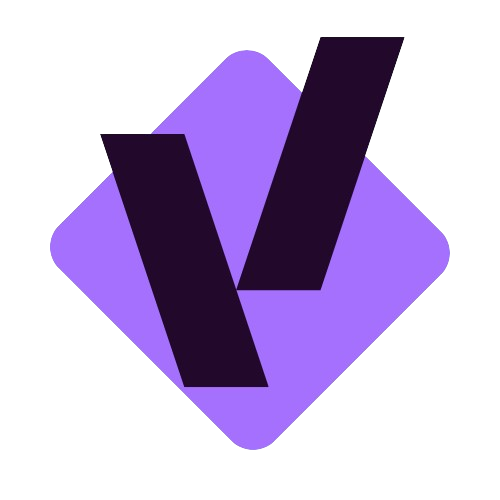
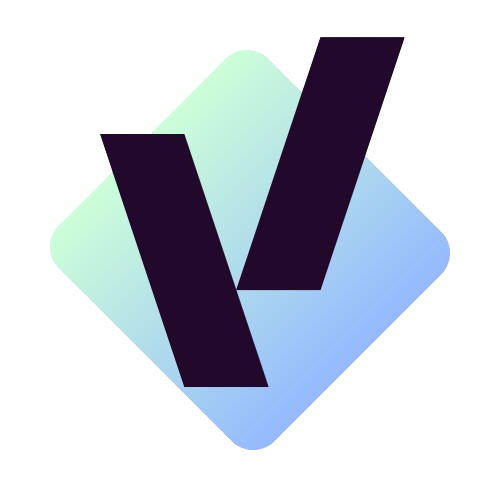
Version 1.02
Added new mode highlighting feature to indicate the active mode, and added a new icon.

Changed region(s): [[0.09, 0.09, 0.9, 0.9]]

diff --git a/Extension/handlers/contenteditable.js b/Extension/handlers/contenteditable.js
@@ -2,11 +2,19 @@ function handleContentEditable(event, el) {
     if (event.key === "i" && normal) {
       event.preventDefault();
       console.log("you're in insert mode");
+      const range = window.getSelection().getRangeAt(0);
+      range.setStart(range.startContainer, range.startOffset);
+      range.setEnd(range.startContainer, range.startOffset);
+      window.getSelection().addRange(range)
       normal = false;
     }
     else if (event.key === "`" && !normal) {
       event.preventDefault();
       console.log("you're back in normal mode")
+      const range = window.getSelection().getRangeAt(0);
+      range.setStart(range.startContainer, range.startOffset - 1);
+      range.setEnd(range.startContainer, range.startOffset + 1);
+      window.getSelection().addRange(range);
       normal = true;
     }
     else if (event.key === "h" && normal) {
@@ -30,7 +38,10 @@ function handleContentEditable(event, el) {
       nextwordContentEditable();
   } else if (event.key === "a" && normal){
       event.preventDefault();
-      moveCursorRightContentEditable();
+      const range = window.getSelection().getRangeAt(0);
+      range.setStart(range.startContainer, range.startOffset + 1);
+      range.setEnd(range.startContainer, range.startOffset);
+      window.getSelection().addRange(range);
       normal = false;
   } else if (event.key === "b" && normal){
       event.preventDefault();
@@ -54,7 +65,7 @@ function moveCursorLeftContentEditable() {
     const range = selection.getRangeAt(0);
     if (range.startOffset > 0) {
         range.setStart(range.startContainer, range.startOffset - 1);
-        range.setEnd(range.startContainer, range.startOffset);
+        range.setEnd(range.startContainer, range.startOffset + 1);
         selection.addRange(range);
     }
 }
@@ -65,8 +76,9 @@ function moveCursorRightContentEditable() {
     const node = range.startContainer;
     const textLength = node.textContent.length;
     if (range.startOffset >= textLength) return;
+    if (range.startOffset + 1 === textLength) return;
     range.setStart(range.startContainer, range.startOffset + 1);
-    range.setEnd(range.startContainer, range.startOffset);
+    range.setEnd(range.startContainer, range.startOffset + 1);
     selection.addRange(range);
 }
 
@@ -78,9 +90,9 @@ function moveCursorDownContentEditable() {
   if (!nextline) return;
   const textNode = nextline.firstChild;
   if (textNode && textNode.nodeType === Node.TEXT_NODE) {
-    const offset = Math.min(column, textNode.length); // Avoid going past the line's length
+    let offset = Math.min(column, textNode.length); // Avoid going past the line's length
     range.setStart(textNode, offset);
-    range.setEnd(textNode, offset);
+    range.setEnd(textNode, offset + 1);
     selection.addRange(range);
   } 
 }
@@ -95,7 +107,7 @@ function moveCursorUpContentEditable() {
   if (textNode && textNode.nodeType === Node.TEXT_NODE){
     const offset = Math.min(column, textNode.length);
     range.setStart(textNode, offset);
-    range.setEnd(textNode, offset);
+    range.setEnd(textNode, offset + 1);
     selection.addRange(range);
   }
 }
@@ -106,10 +118,12 @@ function nextwordContentEditable() {
   const linetext = getCurrentLineText();
   const currentTextAfterCaret = linetext.substring(range.startOffset);
   const nextSpaceIndex = currentTextAfterCaret.indexOf(" ");
-  const nextwordpos = (nextSpaceIndex === -1) ? linetext.length : range.startOffset + nextSpaceIndex + 1;
-
+  let nextwordpos = (nextSpaceIndex === -1) ? linetext.length : range.startOffset + nextSpaceIndex + 1;
+  if (nextwordpos === linetext.length){
+    --nextwordpos;
+  }
   range.setStart(range.startContainer, nextwordpos);
-  range.setEnd(range.startContainer, nextwordpos);
+  range.setEnd(range.startContainer, nextwordpos + 1);
   selection.addRange(range);
 }
 
@@ -121,7 +135,7 @@ function gobackContentEditable() {
   const lastSpaceIndex = currentTextBeforeCaret.lastIndexOf(" ");
   const newpos = (lastSpaceIndex === -1) ? 0 : lastSpaceIndex;
   
-  range.setStart(range.startContainer, newpos);
+  range.setStart(range.startContainer, newpos - 1);
   range.setEnd(range.startContainer, newpos);
   selection.addRange(range);
 }
@@ -130,7 +144,7 @@ function zerocont() {
   const selection = window.getSelection();
   const range = selection.getRangeAt(0);
   range.setStart(range.startContainer,0);
-  range.setEnd(range.startContainer,0);
+  range.setEnd(range.startContainer,1);
   selection.addRange(range);
 }
 

diff --git a/Extension/handlers/textbox.js b/Extension/handlers/textbox.js
@@ -3,10 +3,12 @@ function handleTextbox(event, el) {
   if (event.key === "i" && normal) {
       event.preventDefault();
       console.log("You're in insert mode");
+      switchin(el);
       normal = false;
   } else if (event.key === "`" && !normal){
       event.preventDefault();
       console.log("you're back in normal mode");
+      switchnorm(el);
       normal = true;
   } else if (event.key === "h" && normal){
       event.preventDefault();
@@ -42,25 +44,46 @@ function handleTextbox(event, el) {
 }
 
 // keybind functions
+function switchnorm(input){
+  const start = input.selectionStart;
+  input.setSelectionRange(start-1, start);
+}
+
+function switchin(input){
+  const start = input.selectionStart;
+  input.setSelectionRange(start,start);
+}
 
 function movecursorleft(input){
     const pos = input.selectionStart;
     if (pos > 0) {
-            input.setSelectionRange(pos-1, pos-1);
+            input.setSelectionRange(pos-1, pos);
         }
     input.focus();
 }
 
-function movecursorright(input){
-    const pos = input.selectionStart;
-          input.setSelectionRange(pos+1,pos+1);
-    input.focus();
+function movecursorright(input) {
+  const start = input.selectionStart;
+  const end = input.selectionEnd;
+
+  if (end < input.value.length) {
+    if (start !== end){
+    input.setSelectionRange(start + 1, end + 1);
+    }
+    else {
+      input.setSelectionRange(start + 1, end + 2);
+    }
   }
+
+  input.focus();
+}
+
 
 function append(input){
     const pos = input.selectionStart;
-    if (pos > 0) {
-            input.setSelectionRange(pos+1, pos+1);
+    const cline = input.value.substring(pos).split("\n")[0].length + pos;
+  if (pos > 0) {
+            input.setSelectionRange(pos + 1, pos+1);
         }
     input.focus();
   normal = false;
@@ -75,7 +98,7 @@ function moveCursorUp(el) {
   const column = lines[cline].length;
   const pline = lines.length - 2;
   const newpos = Math.min(cpos - lines[pline].length - 1, cpos - column - 1);
-  el.setSelectionRange(newpos,newpos);
+  el.setSelectionRange(newpos,newpos+1);
 }
 
 function moveCursorDown(el) { 
@@ -92,14 +115,14 @@ function moveCursorDown(el) {
   } else {
     newpos = Math.min(cpos + linesaftercursor[0].length + linesaftercursor[1].length, cpos + skiptext + column);
   }
-  el.setSelectionRange(newpos, newpos);
+  el.setSelectionRange(newpos, newpos+1);
 }
 
 
 
 
 function nextword(el) {
-  const cpos = el.selectionStart;
+  const cpos = el.selectionEnd;
   const text = el.value.substring(cpos);
   
   let i = 0;
@@ -109,7 +132,7 @@ function nextword(el) {
   while (i < text.length && !/\s/.test(text[i])) {
     i++;
   }
-  el.setSelectionRange(cpos + i, cpos + i);
+  el.setSelectionRange(cpos + i - 1, cpos + i);
 }
 
 function goback(el) {
@@ -126,7 +149,7 @@ function goback(el) {
   while (i > 0 && !/\s/.test(text[i - 1])) {
     i--;
   }
-  el.setSelectionRange(i, i);
+  el.setSelectionRange(i, i + 1);
 }
 
 function zero(el) {
@@ -134,7 +157,7 @@ function zero(el) {
   const text = el.value.substring(0,cpos);
   const lines = text.split("\n");
   const newpos = cpos - lines[lines.length - 1].length;
-  el.setSelectionRange(newpos,newpos);
+  el.setSelectionRange(newpos,newpos+1);
 }
 
 function capA(el) {

diff --git a/README.md b/README.md
@@ -2,23 +2,26 @@
 
 ---
 
-# Vim-like Keybindings for Browser Text Inputs (Alpha v1.01)
+# Vim-like Keybindings for Browser Text Inputs (Alpha v1.02)
 
 This Chrome extension provides Vim-like keybindings for navigating and editing text in various text input elements, such as standard text boxes, contenteditable fields, and virtual DOM-based text inputs (like Google Docs, VS Code, etc.). Currently in the alpha stage, this extension aims to bring a familiar and efficient text-editing experience to web-based text input fields.
 
-## Current Features (Alpha v1.01)
+## Current Features (Alpha v1.02)
 
 - **Insert Mode (`i`)**: Press `i` to switch to insert mode.
 - **Normal Mode (Backtick)**: Press the backtick (`` ` ``) to return to normal mode.
+- **Mode Highlighting – *New in v1.02***:
+  - Visual distinction between **Normal Mode** and **Insert Mode** through a new selection/highlighting system.
+  - Mimics the feel of Vim’s visual feedback by clearly indicating the active mode.
 - **Cursor Navigation**:
   - Move Left (`h`): Move the cursor left by one character.
   - Move Right (`l`): Move the cursor right by one character.
   - Move Up (`k`): Move the cursor up by one line (works in contenteditable elements).
   - Move Down (`j`): Move the cursor down by one line (works in contenteditable elements).
   - Next Word (`w`): Move the cursor to the next word.
-  - Previous Word (`b`) – *New in v1.01*
-  - Beginning of Line (`0`) – *New in v1.01*
-  - Append to End of Line (`A`) – *New in v1.01*
+  - Previous Word (`b`) – *Added in v1.01*
+  - Beginning of Line (`0`) – *Added in v1.01*
+  - Append to End of Line (`A`) – *Added in v1.01*
   - Move Right and Switch to Insert Mode (`a`)
 
 ## Supported Input Types
